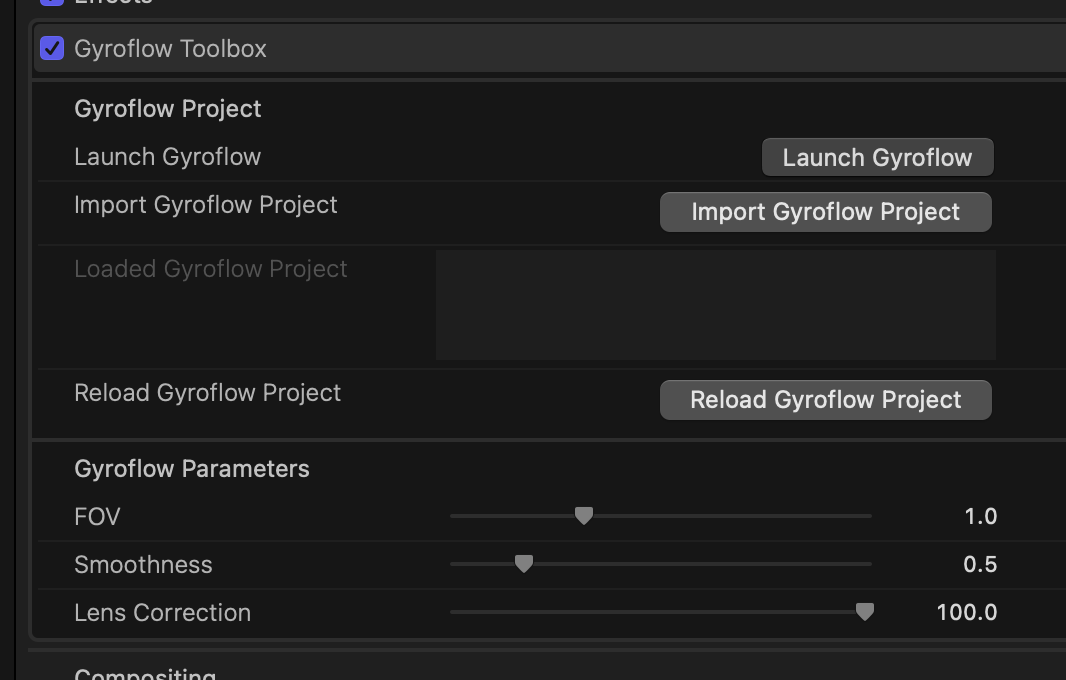
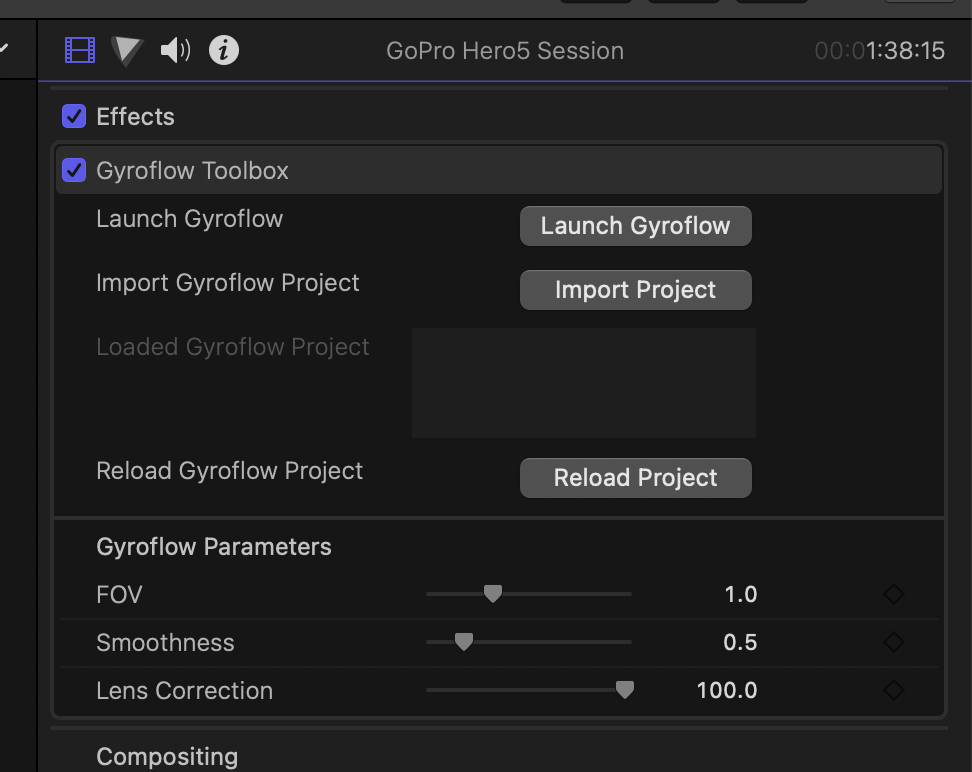
Updated README

diff --git a/README.md b/README.md
@@ -67,9 +67,9 @@ It's important that you include the processed gyro data, otherwise none of the s
 
 ![Screenshot](Documentation/08-install.png)
 
-You can now press the **Import Gyroflow Project** button in the Final Cut Pro Inspector to import it.
+You can now press the **Import Project** button in the Final Cut Pro Inspector to import it.
 
-The data from the Gyroflow Project gets saved within the Final Cut Pro library. If you want to reload it, you can either re-import, or if the file is in the same path, you can press **Reload Gyroflow Project**.
+The data from the Gyroflow Project gets saved within the Final Cut Pro library. If you want to reload it, you can either re-import, or if the file is in the same path, you can press **Reload Project**.
 
 You can adjust and keyframe the FOV, Smoothness and Lens Correction within Final Cut Pro.
 
